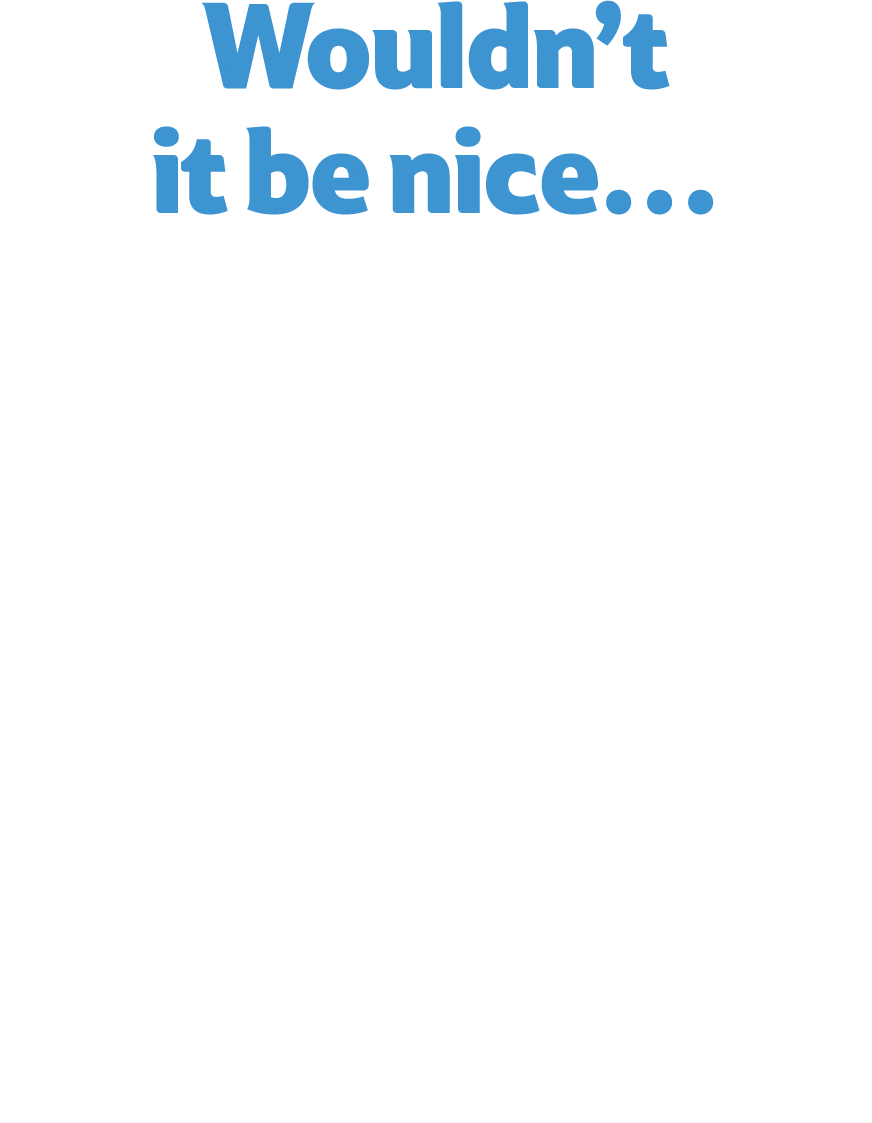
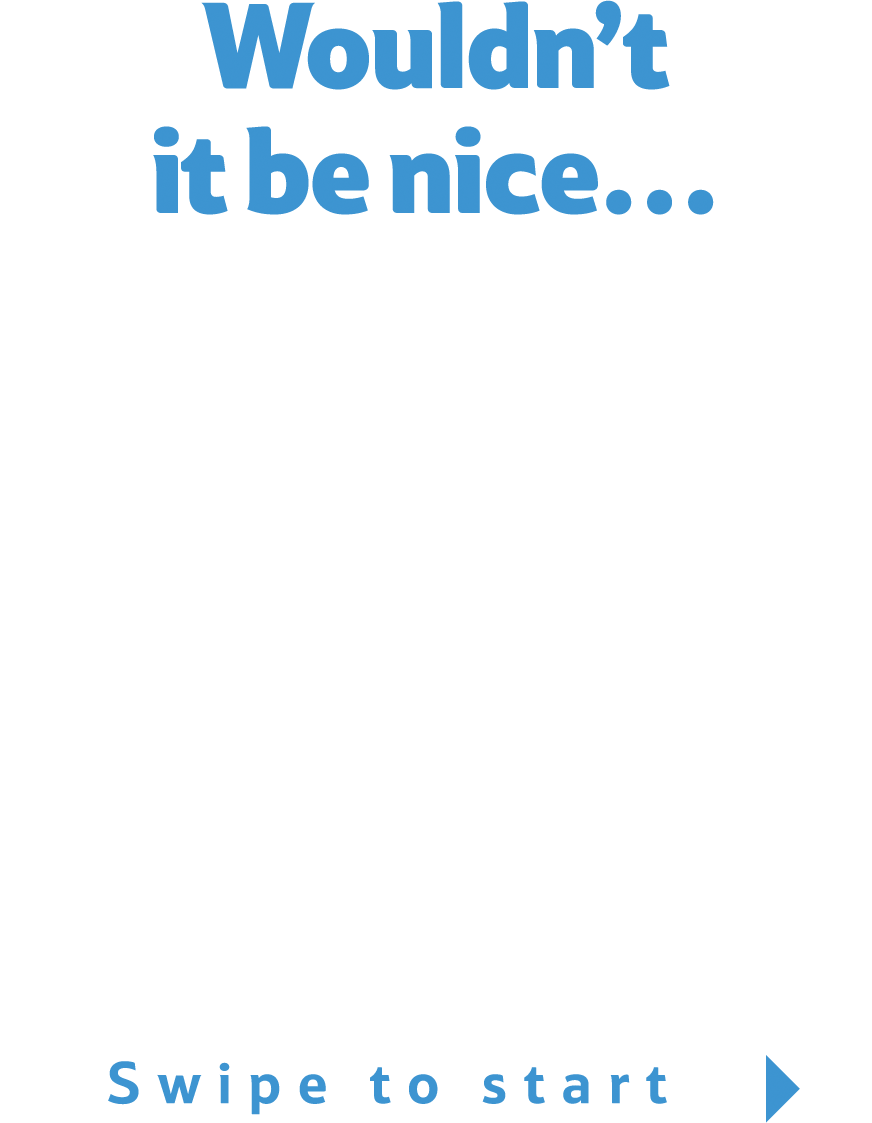
added swipe to start on all slides

diff --git a/application/views/content/slideshow.php b/application/views/content/slideshow.php
@@ -29,7 +29,7 @@
 
 	<span id="slideContainer">
 
-		&nbsp;
+		<img src="<?=base_url()?>css/assets/slideblank.png"/>
 
 		</span>
 	<span id="slideContainer">
